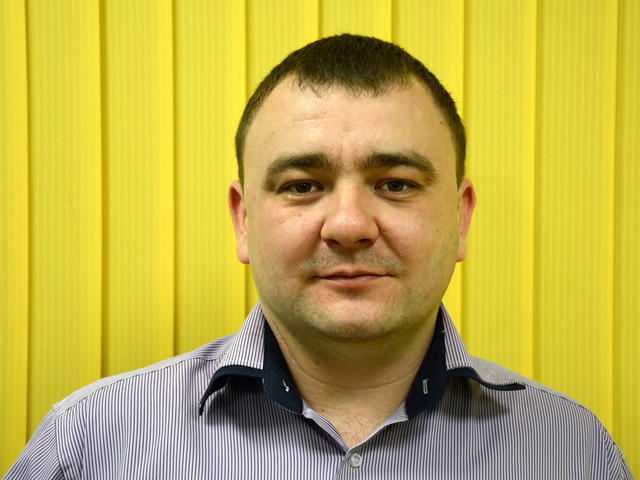
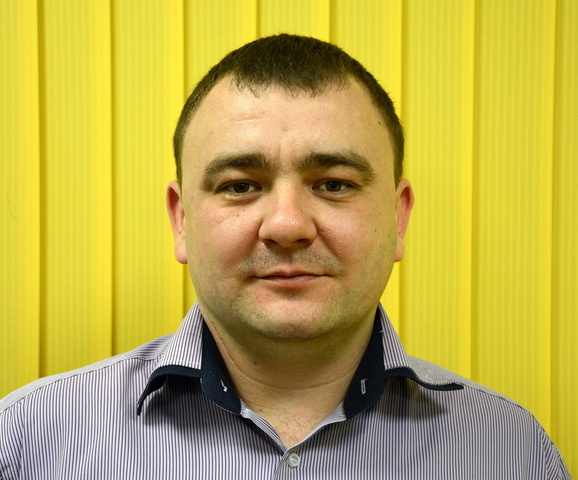
Редактирование фото и тире

diff --git a/index.html b/index.html
@@ -71,9 +71,9 @@
         </table>
     </div>
     <div class="formatDate">
-        <p>Формат даты (<span class="green">XX.ХХ.ХХХХ</span>) - в процессе изучения.</p>
-        <p>Формат даты (<span class="orange">XX.ХХ.ХХХХ</span>) - переходный период.</p>
-        <p>Формат даты (<span class="red">XX.ХХ.ХХХХ</span>) - изучение окончено.</p>
+        <p>Формат даты (<span class="green">XX.ХХ.ХХХХ</span>) &#8212; в процессе изучения.</p>
+        <p>Формат даты (<span class="orange">XX.ХХ.ХХХХ</span>) &#8212; переходный период.</p>
+        <p>Формат даты (<span class="red">XX.ХХ.ХХХХ</span>) &#8212; изучение окончено.</p>
     </div>
     <div class="table2">
         <table>
@@ -198,7 +198,7 @@
                                 <li>"jQuery для профессионалов: работа с селекторами";</li>
                                 <li>"jQuery для профессионалов: работа с Ajax";</li>
                                 <li>"Оживляем веб с помощью JQuery, AJAX, JSON, JSONP и iframe";</li>
-                                <li>"Способы анимации в Web посредством Javascipt и CSS. Web Animations API - как с ним работать. Плюсы и минусы";</li>
+                                <li>"Способы анимации в Web посредством Javascipt и CSS. Web Animations API &#8212; как с ним работать. Плюсы и минусы";</li>
                             </ul>
                         </li>
                         <li>фреймворки:
@@ -247,7 +247,7 @@
                         <li>"Разработка веб-приложений на PHP + PostgreSQL";</li>
                         <li>"Выборка данных из MySQL с группировкой средствами PHP";</li>
                         <li>"Битрикс24. Повышаем эффективность работы";</li>
-                        <li>"1С&nbsp;Битрикс - система для успешной веб-разработки";</li>
+                        <li>"1С&nbsp;Битрикс &#8212; система для успешной веб-разработки";</li>
                         <li>"Эффективная архитектура баз данных. Как профилировать и оптимизировать запросы и структуру БД".</li>
                     </ul>
                 </td>
@@ -269,9 +269,9 @@
                     <ol>
                         <li>основы:
                             <ul>
-                                <li>"Разработка сайта самостоятельно - интенсив &laquo;Обучение веб-разработке&raquo;";</li>
-                                <li>"Веб-разработка - Быстрый старт";</li>
-                                <li>"PHP - Личный блог";</li>
+                                <li>"Разработка сайта самостоятельно &#8212; интенсив &laquo;Обучение веб-разработке&raquo;";</li>
+                                <li>"Веб-разработка &#8212; Быстрый старт";</li>
+                                <li>"PHP &#8212; Личный блог";</li>
                                 <li>"Первые шаги, впечатления от PHPStorm";</li>
                                 <li>"Работа в PHPStorm";</li>
                                 <li>"Веб-разработка на PHP. Часть 1 и 2";</li>
